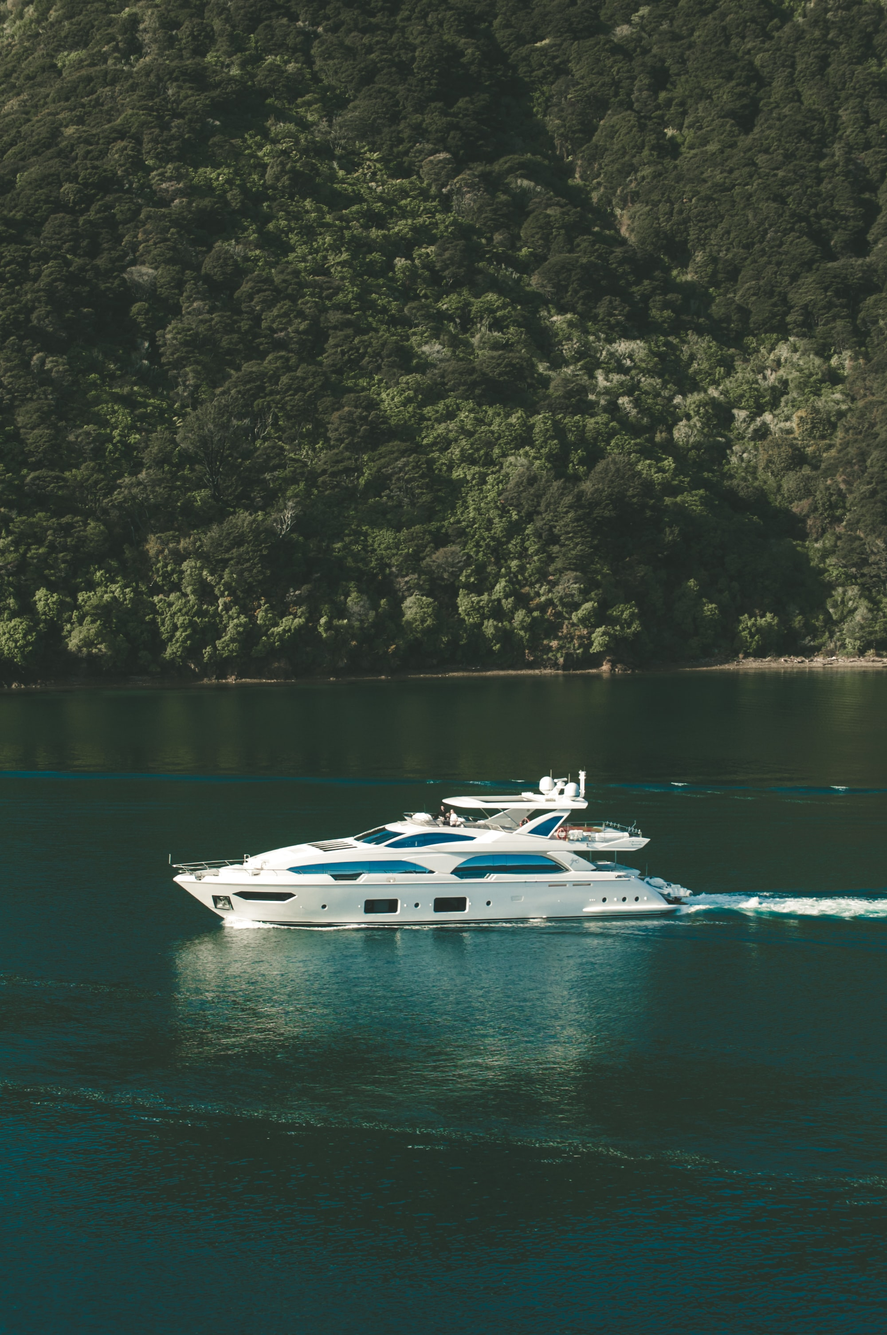
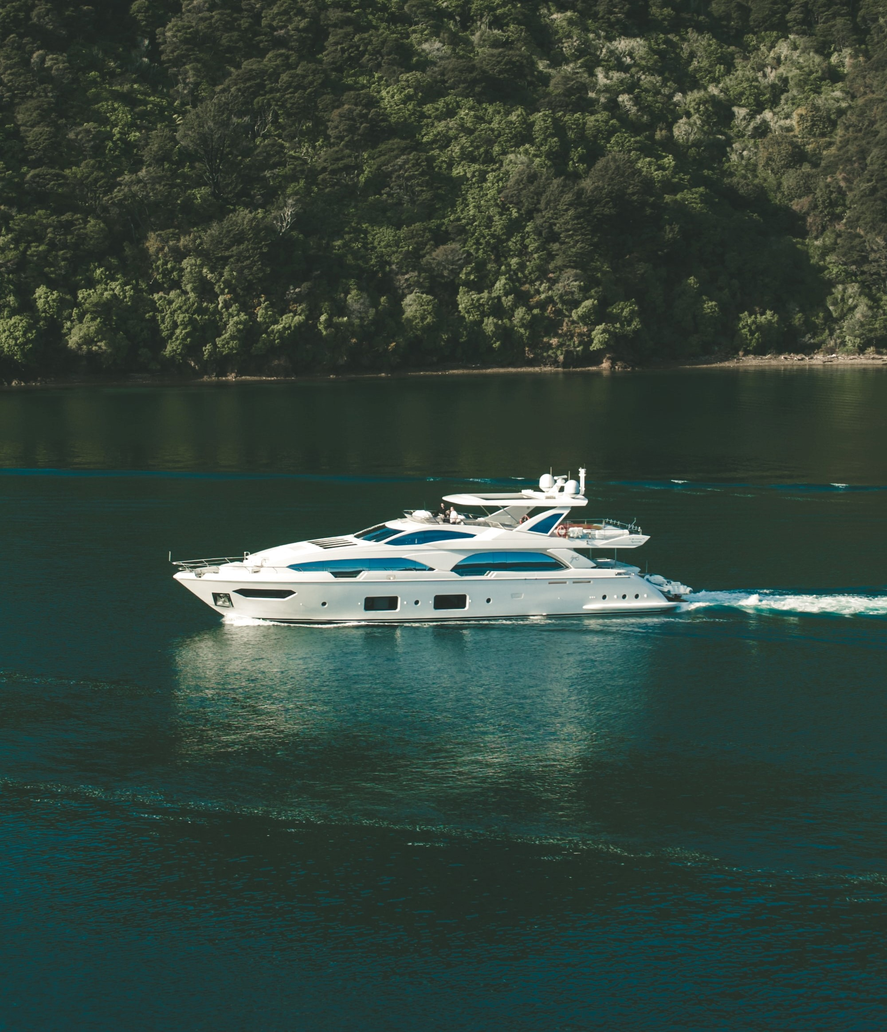
changes

diff --git a/nft-boating/src/Dashboard/Created/Created.jsx b/nft-boating/src/Dashboard/Created/Created.jsx
@@ -7,6 +7,7 @@ import { useEffect } from "react";
 
 /* This example requires Tailwind CSS v2.0+ */
 import { PencilIcon } from "@heroicons/react/solid";
+import image1 from "../../Assests/images/yachat.jpg";
 
 export default function Created() {
   const { account, active } = useWeb3React();
@@ -46,7 +47,7 @@ export default function Created() {
               baseURI: contractData.baseURI.toString(),
               contractAddress: addresses[i].toString(),
               imageSrc:
-                "https://tailwindui.com/img/ecommerce-images/product-page-01-related-product-01.jpg",
+                image1,
               imageAlt: "Front of men's Basic Tee in black."
             };
 
@@ -79,7 +80,7 @@ export default function Created() {
           <div className="lg:flex lg:items-center lg:justify-between">
             <div className="flex-1 min-w-0">
               <h1 className="text-3xl font-bold text-gray-900">
-                Your Contracts {state.userNFT}
+                Your Contracts
               </h1>
               <p className="max-w-2xl">
                 Lorem ipsum dolor sit, amet consectetur adipisicing elit. Cumque ipsa commodi accusamus cupiditate blanditiis nihil voluptas architecto numqquam, omnis delecctus ipsa adippisicing?</p>
@@ -105,10 +106,14 @@ export default function Created() {
       <main>
         <div className="max-w-7xl mx-auto px-4 sm:px-6 lg:px-8">
           <div className="max-w-2xl mx-auto py-10 sm:py-10 lg:py-10 lg:max-w-none">
-            <div className="mt-6 space-y-12 lg:space-y-0 lg:grid lg:grid-cols-3 lg:gap-x-6">
+            <div className="mt-6 lg:space-y-0 grid grid-cols-1 sm:grid-cols-2 lg:grid-cols-3 lg:gap-x-6 sm:gap-x-6">
               {state.data.map(Contract => (
                 <div key={Contract.id} className="group relative">
                   <div className="w-full bg-gray-200 aspect-w-1 aspect-h-1 rounded-md overflow-hidden group-hover:opacity-75  lg:aspect-none">
+                    <h1 className="absolute text-black-700 bg-white top-4 rounded-r-lg p-2 text-l">
+
+                      Contract Id ({state.userNFT})
+                    </h1>
                     <img
                       src={Contract.imageSrc}
                       alt={Contract.imageAlt}
@@ -117,11 +122,11 @@ export default function Created() {
                   </div>
                   <div className="mt-4 flex justify-between">
                     <div>
-                      <h3 className="text-sm text-gray-700">
+                      <h3 className="text-2xl text-gray-700 ">
                         <Link to={`/contract/${Contract.contractAddress}`}>
                           <span
                             aria-hidden="true"
-                            className="absolute inset-0"
+                            className="absolute inset-0 "
                           />
                           {Contract.name} ({Contract.symbol})
                         </Link>
